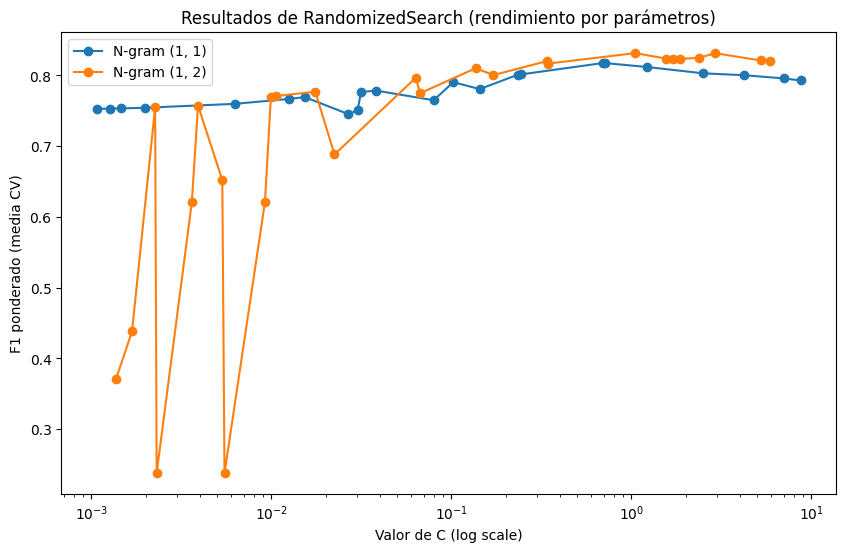
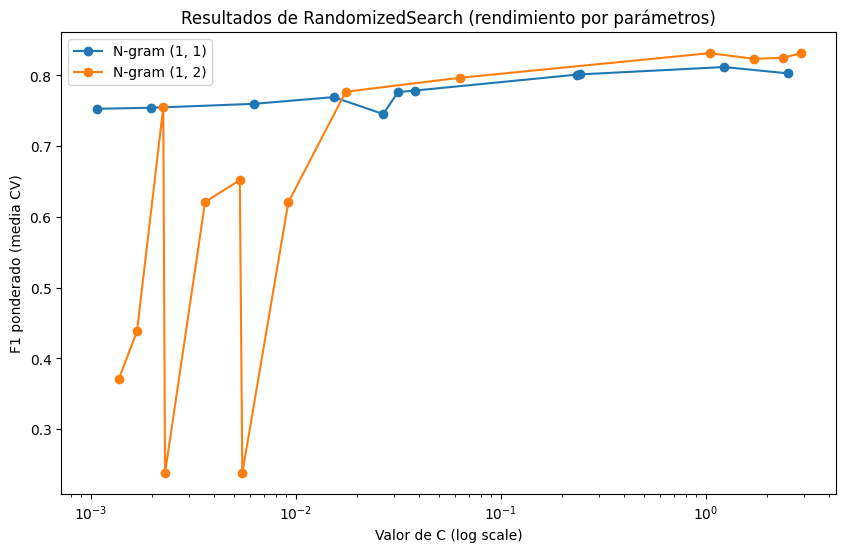
Actualizar el número de iteraciones en la búsqueda aleatoria de hiperparámetros a 25; agregar etiquetas a las barras en la comparación de métricas entre validación y prueba.

diff --git a/training/scikit/logistic_regression.py b/training/scikit/logistic_regression.py
@@ -76,7 +76,7 @@ def optimize_logreg(X_train, y_train):
     random_search = RandomizedSearchCV(
         pipeline,
         param_distributions=param_distributions,
-        n_iter=50,
+        n_iter=25,
         cv=3,
         scoring="f1_weighted",
         n_jobs=-1,
@@ -231,12 +231,19 @@ if __name__ == "__main__":
     comp_df = pd.DataFrame(
         [valid_metrics, test_metrics], index=["Validación", "Prueba"]
     )
+
     fig, ax = plt.subplots(figsize=(8, 6))
     comp_df.plot(kind="bar", colormap="viridis", ax=ax)
+
     ax.set_title("Comparación de métricas entre Validación y Prueba")
     ax.set_ylabel("Valor")
     ax.set_ylim(0, 1)
     plt.xticks(rotation=0)
+
+    # === Etiquetas encima de cada barra ===
+    for container in ax.containers:
+        ax.bar_label(container, fmt="%.2f", label_type="edge", fontsize=10)
+
     save_figure(fig, "logreg_comparison_valid_test.png")
     plt.close(fig)
 
